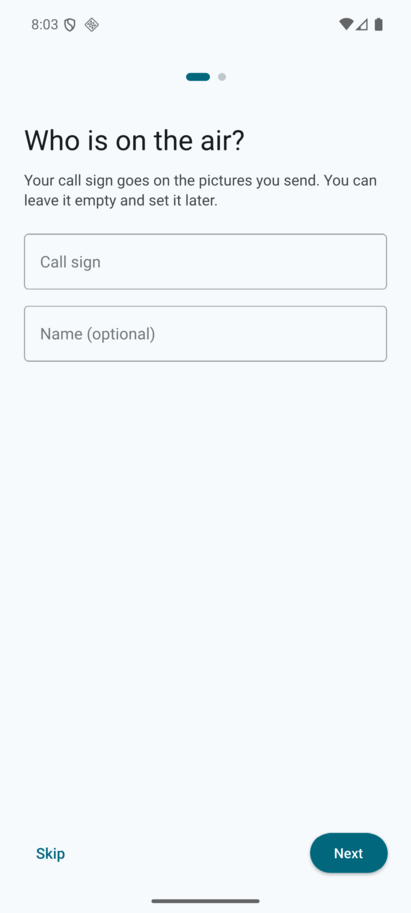
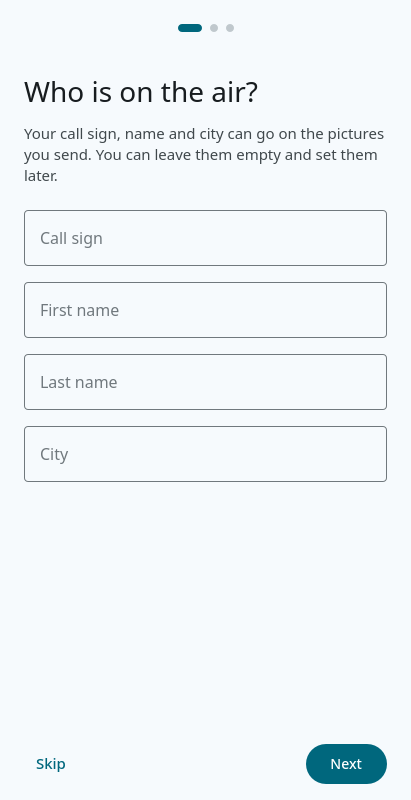
Android: the first start asks for first name, last name and city, each in its own setting, so a full name no longer lands all in the first name (#186).

diff --git a/src/qml/ui/FirstRunScreen.qml b/src/qml/ui/FirstRunScreen.qml
@@ -56,11 +56,13 @@ Rectangle {
                 width: parent.width; visible: first.step === 0
                 Text { width: parent.width; leftPadding: 24; rightPadding: 24; topPadding: 16; text: qsTr("Who is on the air?"); color: Theme.surfaceOn; font.pixelSize: Theme.sp(28); wrapMode: Text.WordWrap; Accessible.role: Accessible.Heading }
                 Text { width: parent.width; leftPadding: 24; rightPadding: 24; topPadding: 12; bottomPadding: 16
-                       text: qsTr("Your call sign goes on the pictures you send. You can leave it empty and set it later.")
+                       text: qsTr("Your call sign, name and city can go on the pictures you send. You can leave them empty and set them later.")
                        color: Theme.surfaceVariantOn; font.pixelSize: Theme.sp(15); wrapMode: Text.WordWrap }
                 TextRow { label: qsTr("Call sign"); hint: qsTr("Call sign"); capitalization: Qt.ImhUppercaseOnly | Qt.ImhNoAutoUppercase
                           text: SettingsController.callsign; onCommitted: (t) => SettingsController.callsign = t }
-                TextRow { label: qsTr("Name (optional)"); hint: qsTr("Name (optional)"); text: SettingsController.firstName; onCommitted: (t) => SettingsController.firstName = t }
+                TextRow { objectName: "firstRunFirstName"; label: qsTr("First name"); hint: qsTr("First name"); text: SettingsController.firstName; onCommitted: (t) => SettingsController.firstName = t }
+                TextRow { objectName: "firstRunLastName"; label: qsTr("Last name"); hint: qsTr("Last name"); text: SettingsController.lastName; onCommitted: (t) => SettingsController.lastName = t }
+                TextRow { objectName: "firstRunCity"; label: qsTr("City"); hint: qsTr("City"); text: SettingsController.qth; onCommitted: (t) => SettingsController.qth = t }
             }
 
             // ---- 2: sound ----

diff --git a/documentation/userguide/pages/android.html b/documentation/userguide/pages/android.html
@@ -24,10 +24,10 @@ It receives and sends pictures through the phone's own microphone and speaker, a
 </ul>
 
 <h2>The first start</h2>
-<div class="shots"><figure><img src="../images/android-setup.png" alt="The first-start setup: who is on the air, with fields for the call sign and the name" loading="lazy"><figcaption>The first start asks who is on the air.</figcaption></figure></div>
+<div class="shots"><figure><img src="../images/android-setup.png" alt="The first-start setup: who is on the air, with fields for the call sign, the first and last name and the city" loading="lazy"><figcaption>The first start asks who is on the air.</figcaption></figure></div>
 <p>The first time the program starts it shows three short steps. Each can be skipped with <span class="ui">Skip</span>, and <strong>Back</strong> goes to the step before.</p>
 <ol>
-<li><strong>Who is on the air?</strong> Your call sign (and name). They go on the pictures you send. You can leave them empty and fill them in later under <span class="ui">Settings &gt; Operator</span>.</li>
+<li><strong>Who is on the air?</strong> Your call sign, first and last name and city. They can go on the pictures you send. You can leave them empty and fill them in later under <span class="ui">Settings &gt; Operator</span>.</li>
 <li><strong>Where does the sound come from?</strong> Start with the phone's own microphone and speaker. The system asks to allow the microphone here. The level meter on this page moves with the sound, so a wrong choice shows at once; <span class="ui">Microphone</span> and <span class="ui">Speaker</span> change it if you use a cable.</li>
 <li><strong>Control your radio?</strong> Shown only when a USB adapter is plugged in; <span class="ui">Set up the radio</span> opens the radio settings. Skip it if you use VOX.</li>
 </ol>

diff --git a/tests/qmlui/shot.cpp b/tests/qmlui/shot.cpp
@@ -36,6 +36,7 @@
 #include "drmprofilescontroller.h"
 #include "frequencycontroller.h"
 #include "soundconfig.h"
+#include "operatorconfig.h"
 #include "directoriesconfig.h"
 
 static QQuickWindow *theWindow()
@@ -1013,6 +1014,28 @@ int main(int argc, char **argv)
               macros++;
             }
           if (macros < 15) fail("the macro list is short");
+        }
+      if (scene == "firstrun-1")
+        {
+          // who is on the air (#186): First name, Last name and City are three fields, each one into its own setting (a full name used to go
+          // all into the first name). The rows' own onCommitted handlers run, as when the field is left.
+          auto fail = [&](const char *what) {fprintf(stderr, "FAIL: firstrun-1: %s\n", what); exitCode = 1;};
+          const struct {const char *row, *text;} rows[] = {{"firstRunFirstName", "Jane"}, {"firstRunLastName", "Doe"}, {"firstRunCity", "Springfield"}};
+          for (const auto &r : rows)
+            {
+              QQuickItem *row = findItem(win->contentItem(), r.row);
+              if (!row) {fail(r.row); continue;}
+              QMetaObject::invokeMethod(row, "committed", Q_ARG(QString, QString::fromLatin1(r.text)));
+            }
+          QTest::qWait(100);
+          if (myFirstname != QStringLiteral("Jane")) fail("the first name is not in the first name");
+          if (myLastname != QStringLiteral("Doe")) fail("the last name is not in the last name");
+          if (myQth != QStringLiteral("Springfield")) fail("the city is not in the city");
+          printf("  operator  first \"%s\", last \"%s\", city \"%s\"\n", qPrintable(myFirstname), qPrintable(myLastname), qPrintable(myQth));
+          SettingsController::instance()->setFirstName(QString());   // the screenshot, and the scenes that follow, start with empty fields
+          SettingsController::instance()->setLastName(QString());
+          SettingsController::instance()->setQth(QString());
+          QTest::qWait(100);
         }
       if (scene == "about") {win->setProperty("aboutOpen", true); QTest::qWait(500);}
       if (scene == "tx-tools")
